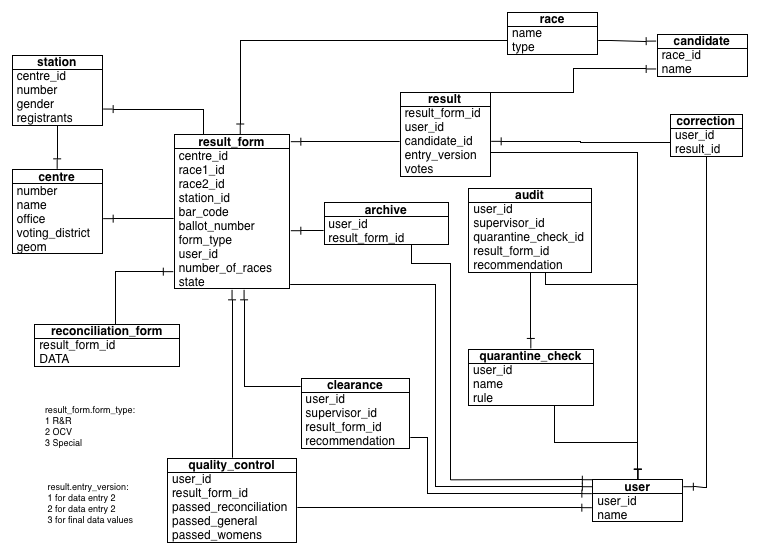
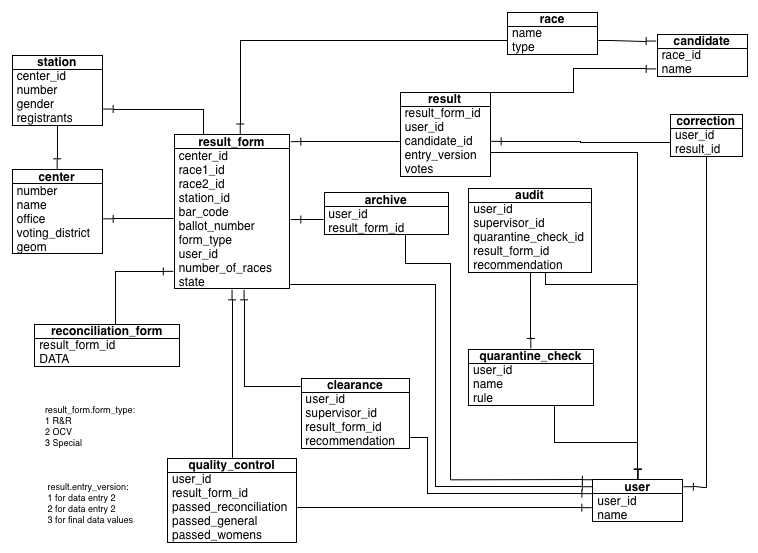
PLD: candidate and recon models

Changed region(s): [[0.3945, 0.3382, 0.5765, 0.4611]]

diff --git a/tally/apps/main/models/reconciliation_form.py b/tally/apps/main/models/reconciliation_form.py
@@ -1,0 +1,41 @@
+from django.db import models
+from django.utils.translation import ugettext as _
+
+from tally.libs.models.base_model import BaseModel
+
+
+class ReconciliationForm(BaseModel):
+    result_form = models.OneToOneField('ResultForm')
+
+    ballot_number_from = models.PositiveIntegerField(
+        help_text=_('Serial number of ballots received by the polling station'
+                    'from'))
+    ballot_number_to = models.PositiveIntegerField(help_text=_('To'))
+    number_ballots_received = models.PositiveIntegerField(
+        help_text=_('Total number of ballots received by the polling station'))
+    number_signatures_in_vr = models.PositiveIntegerField(
+        help_text=_('Number of signatures in the VR'))
+    number_unused_ballots = models.PositiveIntegerField(
+        help_text=_('Number of unused ballots'))
+    number_spoiled_ballots = models.PositiveIntegerField(
+        help_text=_('Number of spoiled ballots'))
+    number_cancelled_ballots = models.PositiveIntegerField(
+        help_text=_('Number of cancelled ballots'))
+    number_ballots_outside_box = models.PositiveIntegerField(
+        help_text=_('Total number of ballots remaining outside the ballot box'
+                    ))
+    number_ballots_inside_box = models.PositiveIntegerField(
+        help_text=_('Number of ballots found inside the ballot box'))
+    number_ballots_inside_and_outside_box = models.PositiveIntegerField(
+        help_text=_('Total number of ballots found inside and outside the '
+                    'ballot box'))
+    number_unstamped_ballots = models.PositiveIntegerField(
+        help_text=_('Number of unstamped ballots'))
+    number_invalid_votes = models.PositiveIntegerField(
+        help_text=_('Number of invalid votes (including the blanks)'))
+    number_valid_votes = models.PositiveIntegerField(
+        help_text=_('Number of valid votes'))
+    number_sorted_and_counted = models.PositiveIntegerField(
+        help_text=_('Total number of the sorted and counted ballots'))
+    remarks = models.TextField(blank=True, help_text=_(
+        'You may use this space for any necessary remarks'))

diff --git a/tally/apps/main/models/center.py b/tally/apps/main/models/center.py
@@ -5,14 +5,14 @@ from tally.libs.models.enums.center_type import CenterType
 
 
 class Center(BaseModel):
-    code = models.IntegerField(unique=True)
+    center_type = models.EnumField(CenterType)
+    code = models.PositiveIntegerField(unique=True)
+    female_registrants = models.PositiveIntegerField()
     latitude = models.FloatField()
     longitutde = models.FloatField()
-    female_registrants = models.IntegerField()
     mahalla = models.CharField()
-    male_registrants = models.IntegerField()
+    male_registrants = models.PositiveIntegerField()
     name = models.CharField(unique=True)
-    number = models.IntegerField(unique=True)
+    number = models.PositiveIntegerField(unique=True)
     region = models.CharField()
-    center_type = models.EnumField(CenterType)
     village = models.CharField()

diff --git a/tally/apps/main/models/candidate.py b/tally/apps/main/models/candidate.py
@@ -1,0 +1,20 @@
+from django.db import models
+
+from tally.libs.models.base_model import BaseModel
+from tally.libs.models.enums.race_type import RaceType
+
+
+class Candidate(BaseModel):
+    race = models.OneToOneField('Race')
+
+    candidate_id = models.PositiveIntegerField()
+    duplicate = models.BooleanField()
+    email = models.CharField()
+    family_book_id = models.PositiveIntegerField()
+    full_name = models.CharField()
+    main_district_id = models.PositiveIntegerField()
+    national_id = models.PositiveIntegerField()
+    office_id = models.PositiveIntegerField()
+    race_type = models.EnumField(RaceType)
+    sub_district_id = models.PositiveIntegerField()
+    voting_district = models.PositiveIntegerField()

diff --git a/tally/libs/models/enums/form_state.py b/tally/libs/models/enums/form_state.py
@@ -12,3 +12,15 @@ class FormState(enum.Enum):
     INTAKE = 7
     QUALITY_CONTROL = 8
     UNSUBMITTED = 9
+
+    _transitions = {
+        ARCHIVED: (ARCHIVING, AUDIT),
+        ARCHIVING: (QUALITY_CONTROL,),
+        AUDIT: (ARCHIVING,),
+        CLEARANCE: (INTAKE,),
+        CORRECTION: (DATA_ENTRY_2),
+        DATA_ENTRY_1: (AUDIT, CORRECTION, INTAKE, QUALITY_CONTROL),
+        DATA_ENTRY_2: (DATA_ENTRY_1),
+        INTAKE: (CLEARANCE, UNSUBMITTED,),
+        QUALITY_CONTROL: (CORRECTION),
+    }

diff --git a/tally/apps/main/models/station.py b/tally/apps/main/models/station.py
@@ -6,6 +6,7 @@ from tally.libs.models.enums.gender import Gender
 
 class Station(BaseModel):
     center = models.ForeignKey('Center')
+
     gender = models.EnumField(Gender)
-    number = models.IntegerField()
-    registrants = models.IntegerField()
+    number = models.PositiveIntegerField()
+    registrants = models.PositiveIntegerField()
